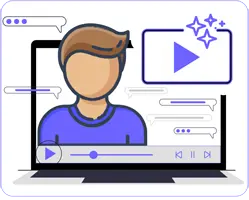
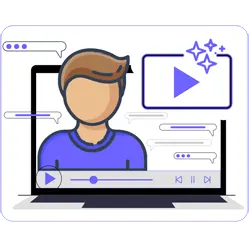
dasdsa
dassad

diff --git a/imtalking.html b/imtalking.html
@@ -120,7 +120,8 @@ body {
 }
 #splash.hidden { opacity: 0; pointer-events: none; }
 .splash-logo {
-  width: 64px; height: 64px;
+  width: 123px; height: 123px;
+ /* width: 64px; height: 64px;*/
   background: linear-gradient(135deg,var(--accent),#a78bfa);
   border-radius: 18px; display: flex; align-items: center;
   justify-content: center; font-size: 34px;
@@ -544,12 +545,13 @@ input[type=range] { flex: 1; accent-color: var(--accent); cursor: pointer; }
 
 <div id="splash">
   <div class="splash-logo">
-    <svg viewBox="0 0 24 24" fill="none" stroke-width="1.7" stroke-linecap="round" stroke-linejoin="round">
+  <img src="uploads/imtalkingsmaller.webp" alt="ImTalking" width="123" height="123"/>
+    <!--<svg viewBox="0 0 24 24" fill="none" stroke-width="1.7" stroke-linecap="round" stroke-linejoin="round">
       <path d="M9 18.5c-3.5-.7-6-3.5-6-7A7.5 7.5 0 0 1 10.5 4h3A7.5 7.5 0 0 1 21 11.5c0 3.5-2.5 6.3-6 7l-1 2.5-1.2-2.3c-.6.1-1.2.1-1.8 0L9 18.5Z"/>
       <path d="M9.5 11.5c.6 1 1.6 1.6 2.5 1.6s1.9-.6 2.5-1.6"/>
       <circle cx="9.5" cy="9" r=".6" fill="currentColor" stroke="none"/>
       <circle cx="14.5" cy="9" r=".6" fill="currentColor" stroke="none"/>
-    </svg>
+    </svg> -->
   </div>
   <div style="text-align:center">
     <div class="splash-title">ImTalking</div>
@@ -559,7 +561,9 @@ input[type=range] { flex: 1; accent-color: var(--accent); cursor: pointer; }
 </div>
 
 <div id="notRunning">
-  <div class="nr-icon">🖥</div>
+  <div class="nr-icon">
+     <img src="uploads/imtalkingsmaller.webp" alt="ImTalking" width="123" height="123"/>
+  </div>
   <div class="nr-title">ImTalking is not running</div>
   <div class="nr-sub">The desktop app wasn't found. Launch it first, then return here — or click below to start it automatically.</div>
   <button class="btn btn-launch" onclick="launchApp()">🚀  Launch ImTalking</button>
